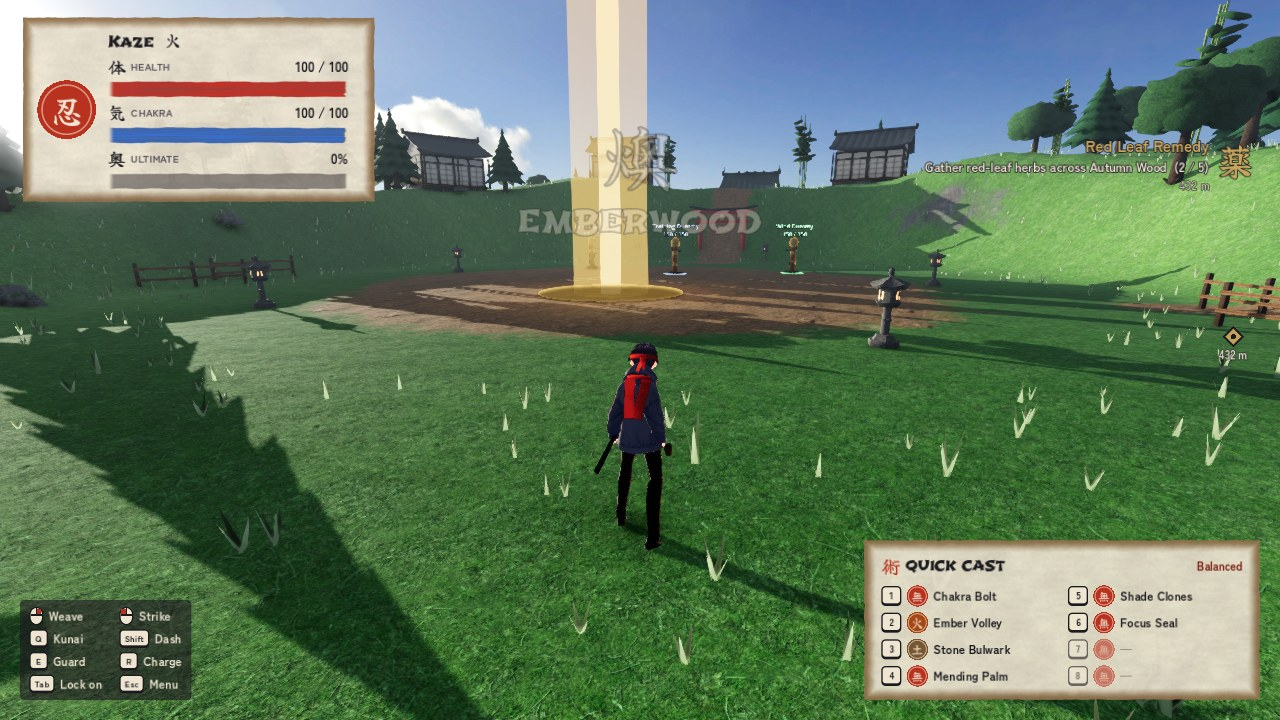
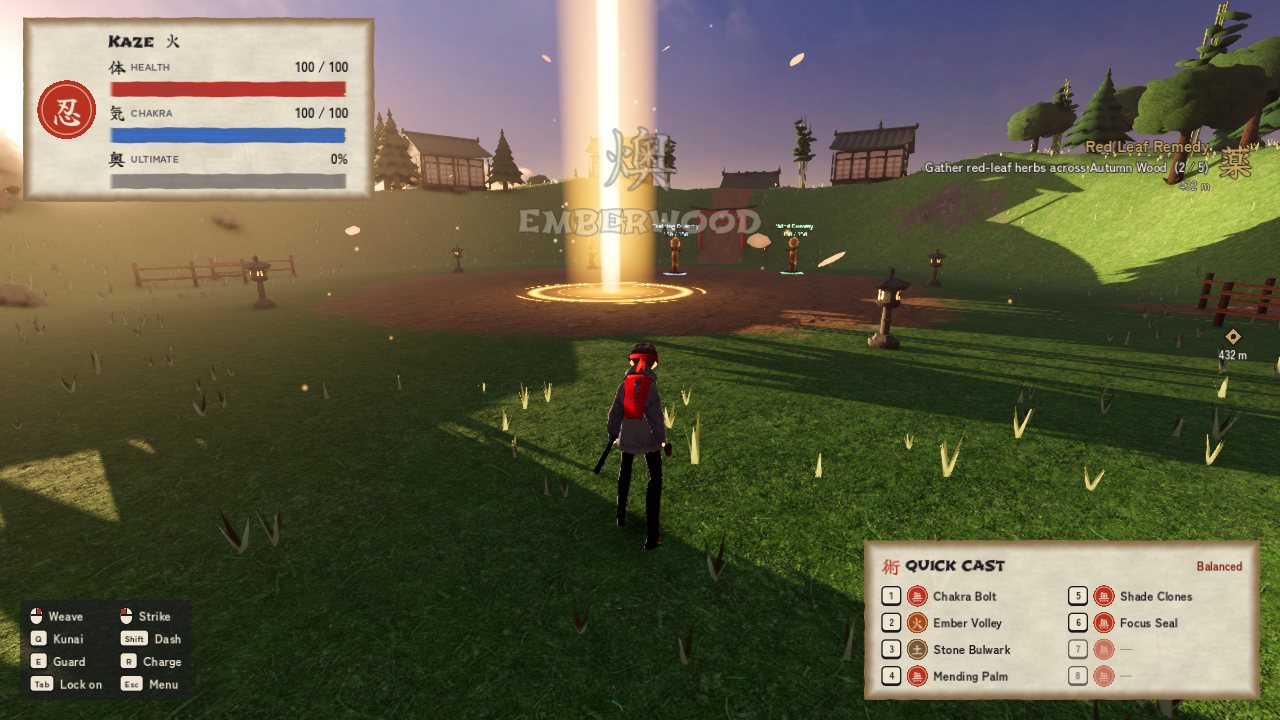
README: Emberwood's academy yard at dusk
Claude-Session: https://claude.ai/code/session_01DqBv8oL4a9RnAAVXx332Bi

diff --git a/README.md b/README.md
@@ -25,7 +25,7 @@ controls can be remapped.
 
 | | |
 |---|---|
-| ![Emberwood's academy yard: lanterns, practice dummies and the pillar of light where the next mission waits](docs/images/world_emberwood.jpg) | ![Out at sea between islands, Autumn Wood and the Frozen Road on the horizon](docs/images/world_islands.jpg) |
+| ![Emberwood's academy yard at dusk: lanterns, practice dummies and the pillar of light where the next mission waits](docs/images/world_emberwood.jpg) | ![Out at sea between islands, Autumn Wood and the Frozen Road on the horizon](docs/images/world_islands.jpg) |
 | ![Pause → Map: the islands charted, found ones named and travelled to](docs/images/world_map.jpg) | ![Pause → Quests: the story mission, a side quest under way, one on offer and two done](docs/images/world_quests.jpg) |
 | ![The Kenjutsu skill tree beside your shinobi on a lit stage, katana drawn](docs/images/skills_kenjutsu.jpg) | ![The Dojutsu skill tree: the camera pushes in on your face with your eyes open](docs/images/skills_dojutsu.jpg) |
 
